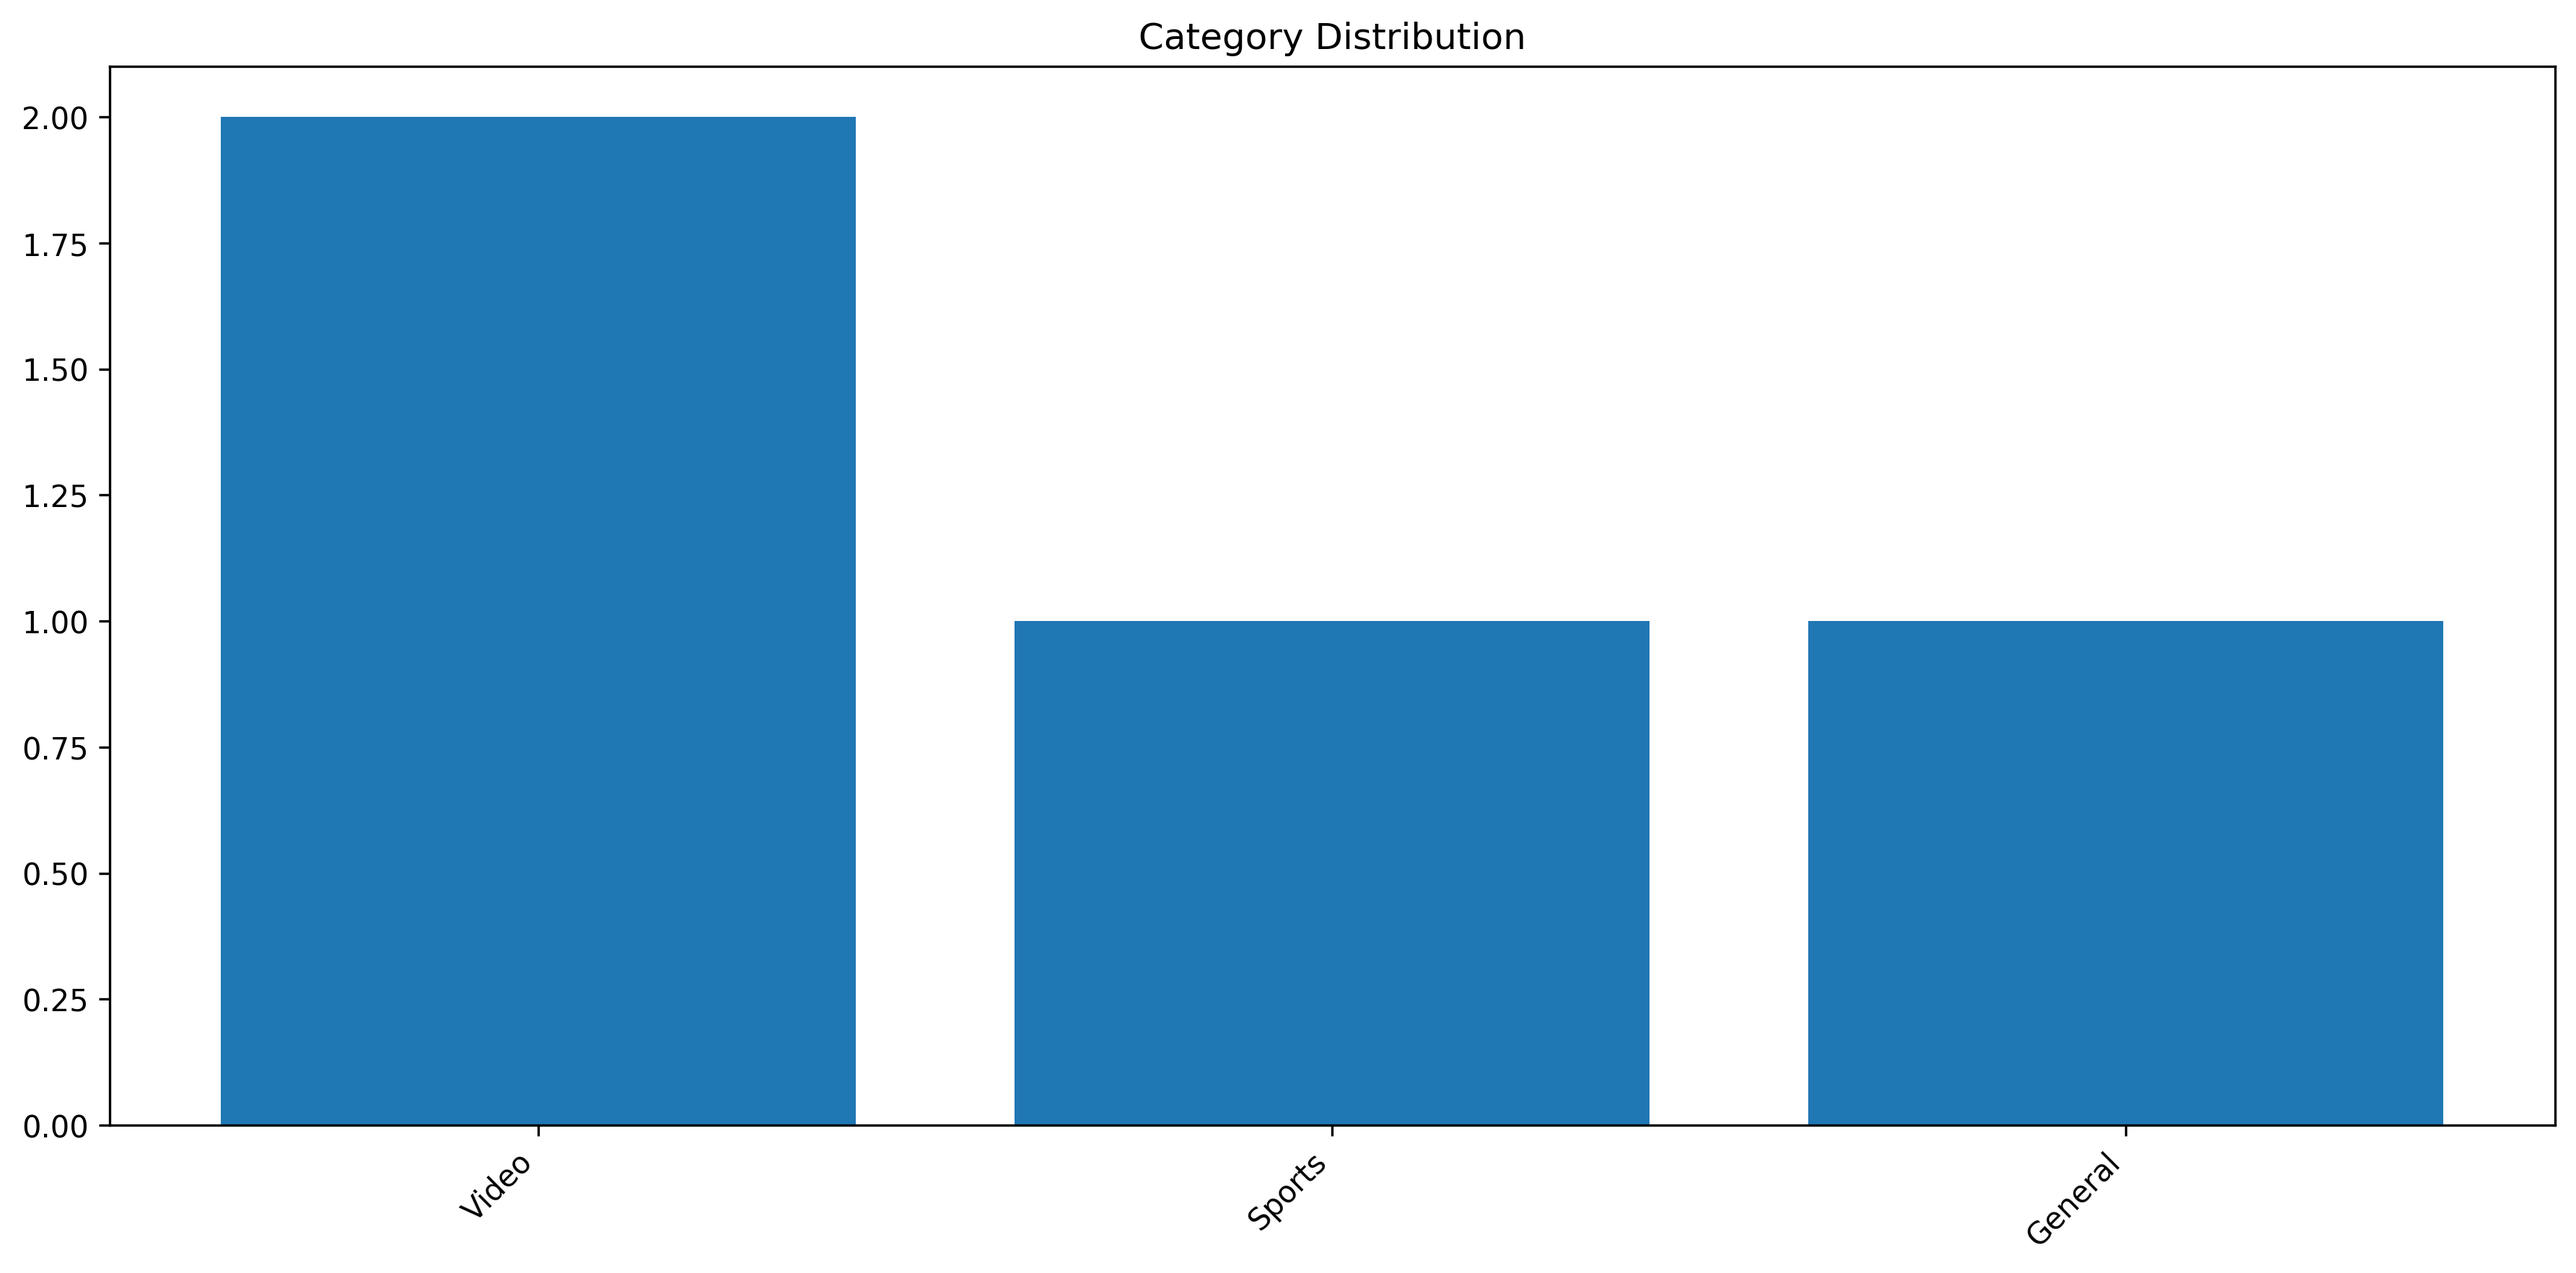
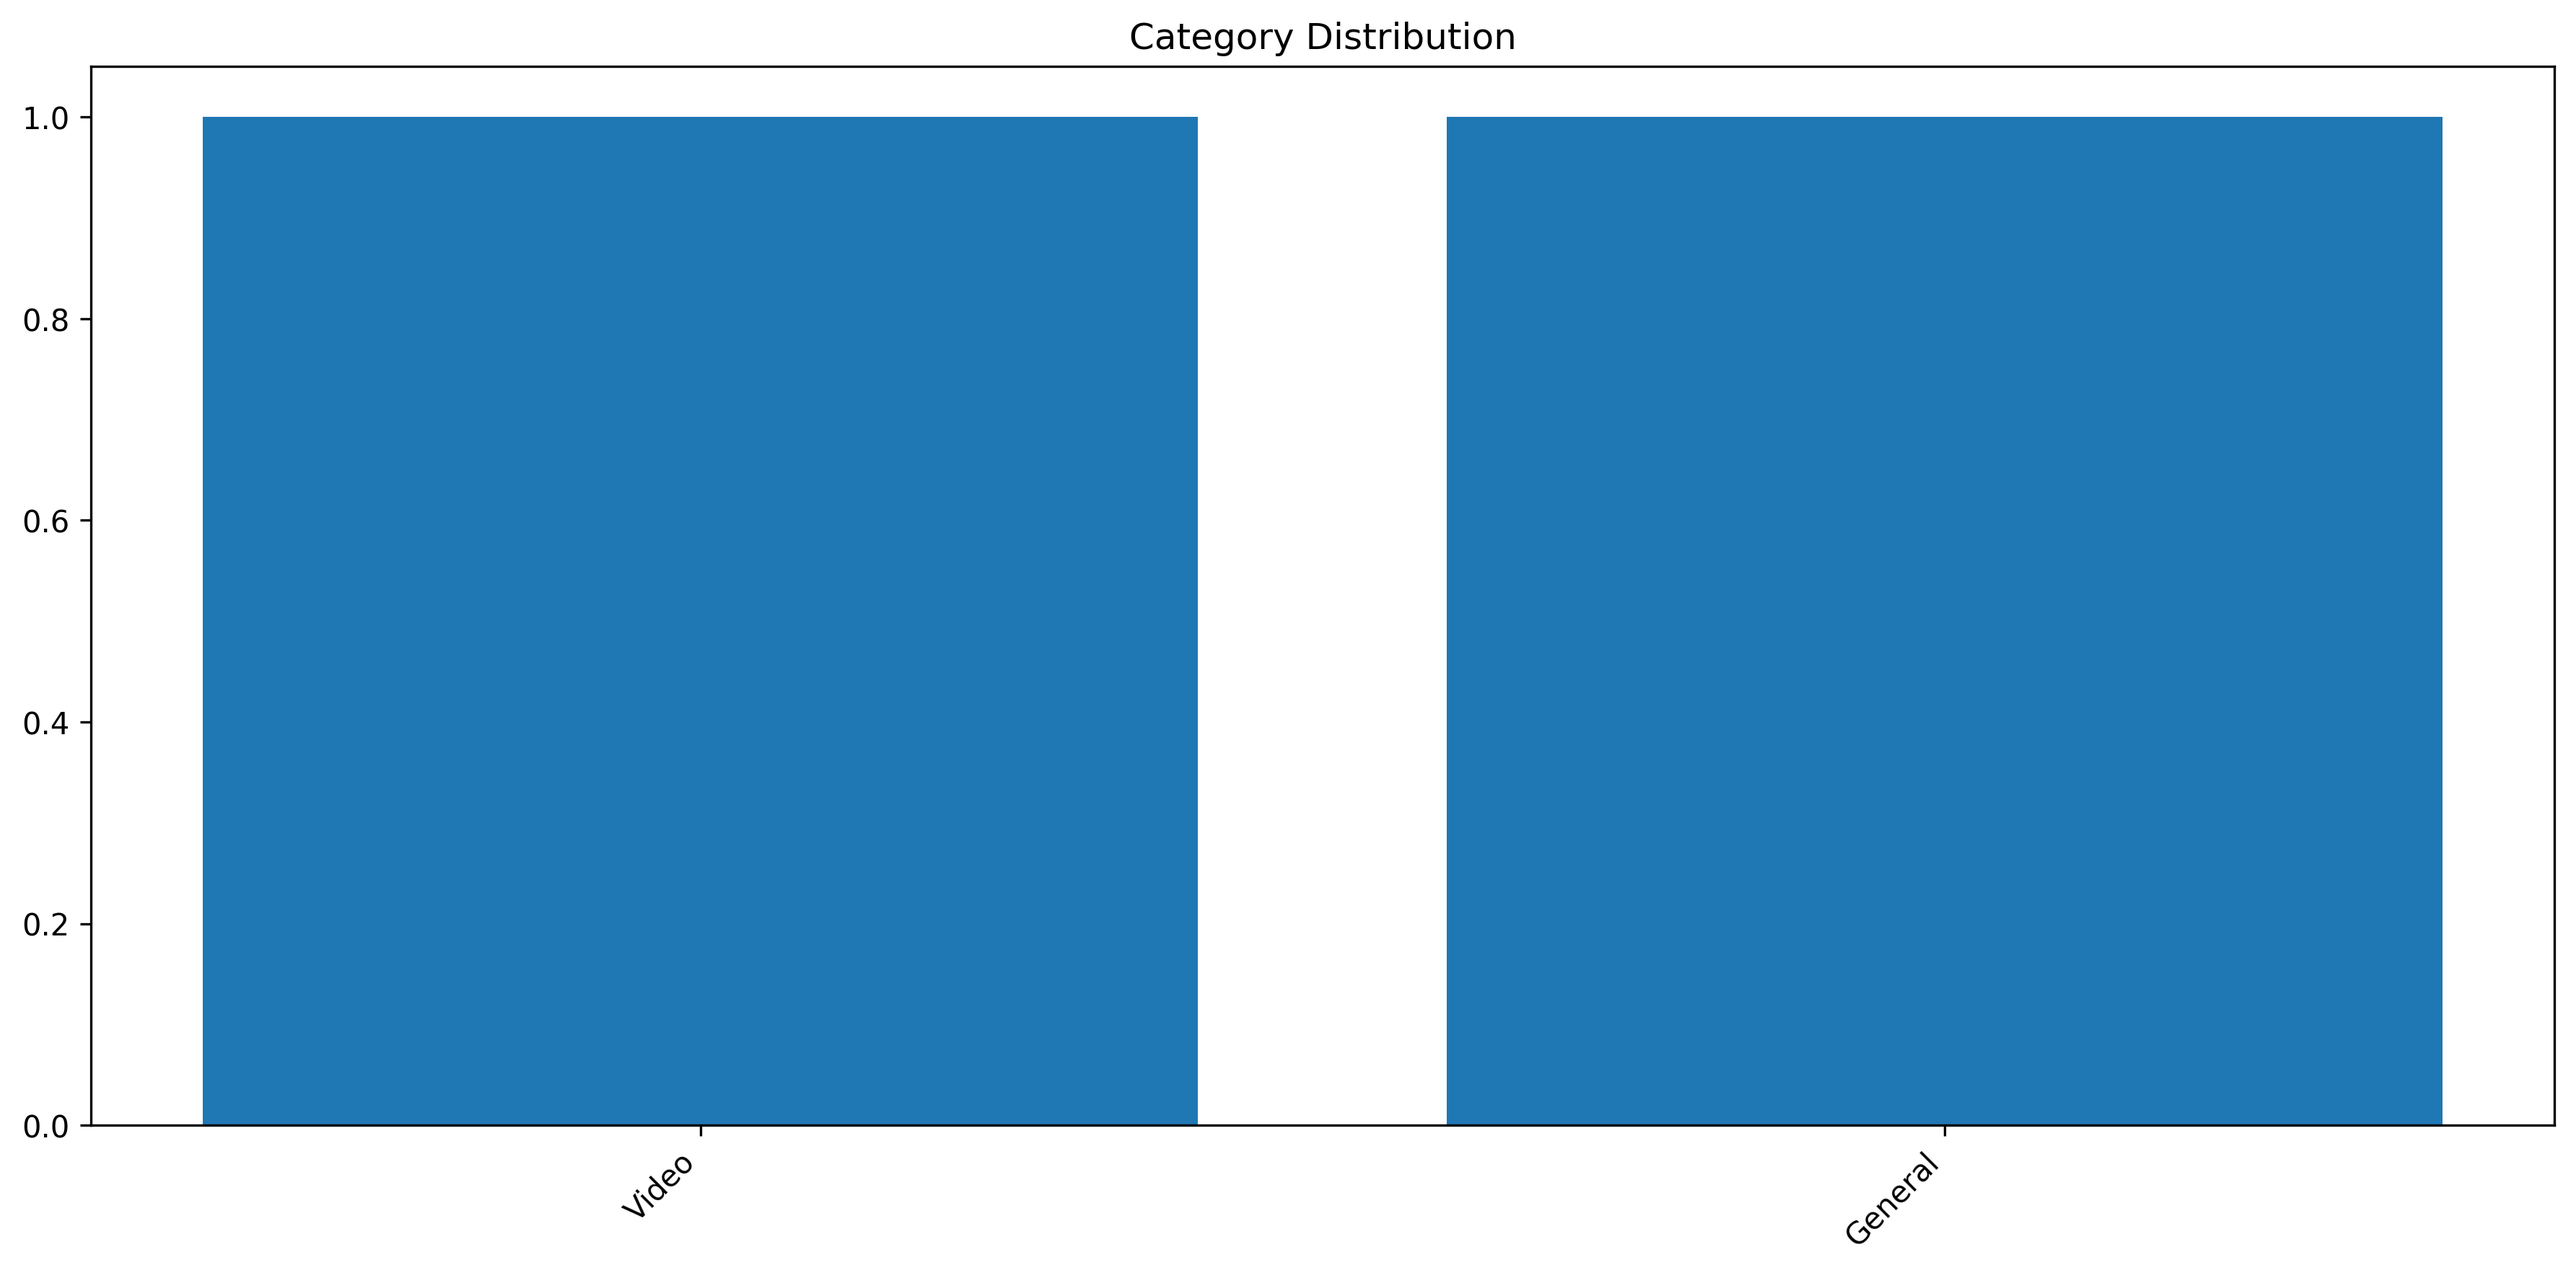
Latest data: Fri Feb  7 18:24:09 UTC 2025

diff --git a/data/README.md b/data/README.md
@@ -1,9 +1,9 @@
 # Tracker Status Report
-> Last Updated: 2025-02-07 12:34:33
+> Last Updated: 2025-02-07 18:24:09
 
 ## Statistics
-- Total Active Trackers: 4
-- Total Categories: 3
+- Total Active Trackers: 2
+- Total Categories: 2
 
 ## Category Distribution
 ![Distribution](./category_distribution.png)
@@ -12,7 +12,5 @@
 ## Active Trackers
 | Tracker | Categories | Open Date | Status |
 |---------|------------|-----------|--------|
-| Old Toons World (OTW) | Video | 2024-12-25 | 🟢 Open |
-| SportsCult | Sports | 2024-12-24 | 🟢 Open |
 | HD-Space (HDS) | Video | 2024-12-11 | 🟢 Open |
 | TorrentLeech (TL) | General | 2024-12-06 | 🟢 Open |
